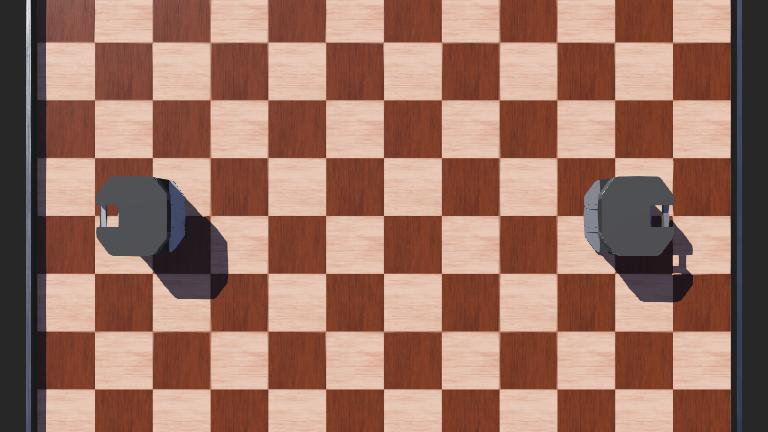
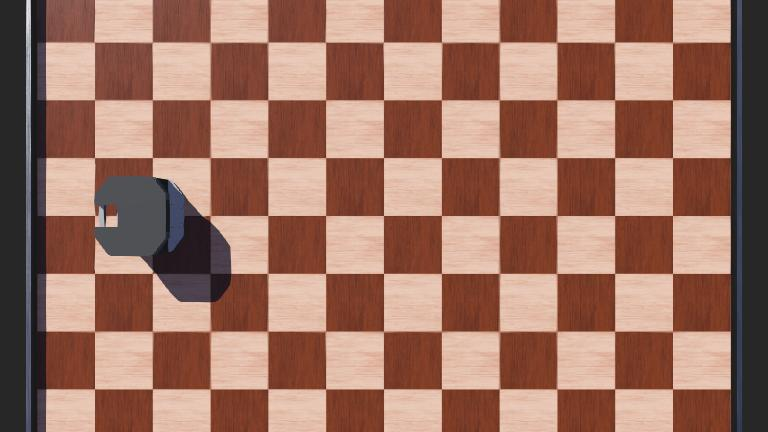
2 bots with tactics

diff --git a/src/ros381_bringup/launch/2_robots.launch.py b/src/ros381_bringup/launch/2_robots.launch.py
@@ -16,7 +16,8 @@ def generate_launch_description():
     yellow_description_path = os.path.join(description_pkg, "urdf", "yellow.urdf")
 
     webots = WebotsLauncher(
-        world=os.path.join(description_pkg, "worlds", "table2.wbt"), ros2_supervisor=True
+        world=os.path.join(description_pkg, "worlds", "table2.wbt"),
+        ros2_supervisor=True,
     )
 
     webots_node_1 = WebotsController(
@@ -80,7 +81,7 @@ def generate_launch_description():
             "/home/hostuser/ros381/src/ros381_bringup/config/webots.params.yaml"
         ],
     )
-    
+
     tactics_node_1 = Node(
         package="ros381_tactics",
         executable="global",
@@ -107,8 +108,28 @@ def generate_launch_description():
         package="ros381_webots",
         executable="global_chinch",
         name="global_chinch",
-        output="screen"
+        output="screen",
     )
+
+    uc_node_1 = Node(
+        package="ros381_hardware",
+        executable="uc",
+        name="uc",
+        namespace="blue",
+        parameters=[
+            "/home/hostuser/ros381/src/ros381_bringup/config/webots.params.yaml"
+		],
+	)
+
+    uc_node_2 = Node(
+        package="ros381_hardware",
+        executable="uc",
+        name="uc",
+        namespace="yellow",
+        parameters=[
+            "/home/hostuser/ros381/src/ros381_bringup/config/webots.params.yaml"
+		],
+	)
 
     return LaunchDescription(
         [
@@ -123,6 +144,8 @@ def generate_launch_description():
             tactics_node_1,
             tactics_node_2,
             chinch_trigger_node,
+            uc_node_1,
+            uc_node_2,
             launch.actions.RegisterEventHandler(
                 event_handler=launch.event_handlers.OnProcessExit(
                     target_action=webots,

diff --git a/src/ros381_tactics/ros381_tactics/tactic_1.py b/src/ros381_tactics/ros381_tactics/tactic_1.py
@@ -4,7 +4,7 @@ from ros381_tactics.get_set import *
 
 tactic_state = 0
 
-start_x = 0.0
+start_x = -1.0
 start_y = 0.0
 start_phi = 0.0
 
@@ -45,13 +45,13 @@ def tactic_1():
             move_on_angle(1.0, 1, math.pi / 2, w_max=3.14)
             tactic_state = 8
         case 77:
-            move_to_xy(0.0, -0.8, 1)
+            move_to_xy(-1.25, 0.75, 1)
             tactic_state = 8
         case 8:
             if get_move_result() == -1:
                 tactic_state = 9
         case 9:
-            move_to_xy(-0.75, 0.0, -1)
+            move_to_xy(-0.2, 0.0, -1)
             tactic_state = 10
         case 10:
             if get_move_result() == -1:

diff --git a/src/ros381_base/src/odometry.cpp b/src/ros381_base/src/odometry.cpp
@@ -45,7 +45,7 @@ class OdometryNode : public rclcpp::Node
         if (update_phi)
             phi_base_ = request->phi;
 
-        RCLCPP_INFO(this->get_logger(), "Current pose :\nx = %.2f mm\ny = %.2f mm\nphi = %.2f rad", x_base_, y_base_,
+        RCLCPP_INFO(this->get_logger(), "New pose :\nx = %.2f mm\ny = %.2f mm\nphi = %.2f rad", x_base_, y_base_,
                     phi_base_);
 
         response->success = update_x || update_y || update_phi;

diff --git a/src/ros381_tactics/ros381_tactics/individual_tactics.py b/src/ros381_tactics/ros381_tactics/individual_tactics.py
@@ -37,6 +37,7 @@ def load_tactic(GT, tactic_number, tactic_side):
             start_x, start_y, start_phi, first_x, first_y, first_dir = globals()[
                 f"load_t{tactic_number}"
             ]()
+            start_x, start_phi = sided_coords(start_x, start_phi)
             if tactic_side == -1:
                 print("Yellow side chosen.")
             else:

diff --git a/src/ros381_tactics/ros381_tactics/get_set.py b/src/ros381_tactics/ros381_tactics/get_set.py
@@ -32,6 +32,6 @@ def get_side():
 
 
 def sided_coords(x, phi):
-    if get_side() == -1:
+    if get_side() == 1:
         return -x, get_side() * math.pi - phi
     return x, phi

diff --git a/src/cli_helper.md b/src/cli_helper.md
@@ -12,7 +12,7 @@ ros2 action send_goal /ros381/move ros381_interfaces/action/Move "{type: -1, x: 
 ros2 action send_goal /ros381/move ros381_interfaces/action/Move "{type: -2, x: 1.0, y: 0.5, phi: 3.14, direction: 1, v_max: 2.0, w_max: 12.6, distance_tolerance_percentage: 1.0, angle_tolerance_percentage: 1.0, start_coeff_v: 1.0, start_coeff_w: 1.0, stop_coeff_v: 1.0, stop_coeff_w: 1.0}"
 ## Trigger Chich
 ros2 topic pub --once /ros381/chinch_trigger example_interfaces/msg/Bool "{data: true}"
-ros2 topic pub --once /chinch_trigger example_interfaces/msg/Bool "{data: true}"
+ros2 topic pub --once /global_chinch example_interfaces/msg/Empty
 ## Switches Publish
-ros2 topic pub --once /ros381/switches example_interfaces/msg/UInt8 "{data: 25}" #11001
-ros2 topic pub --once /ros381/switches example_interfaces/msg/UInt8 "{data: 9}" #01001
+ros2 topic pub --once /ros381/switches example_interfaces/msg/UInt8 "{data: 17}" #10001
+ros2 topic pub --once /ros381/switches example_interfaces/msg/UInt8 "{data: 1}" #00001
